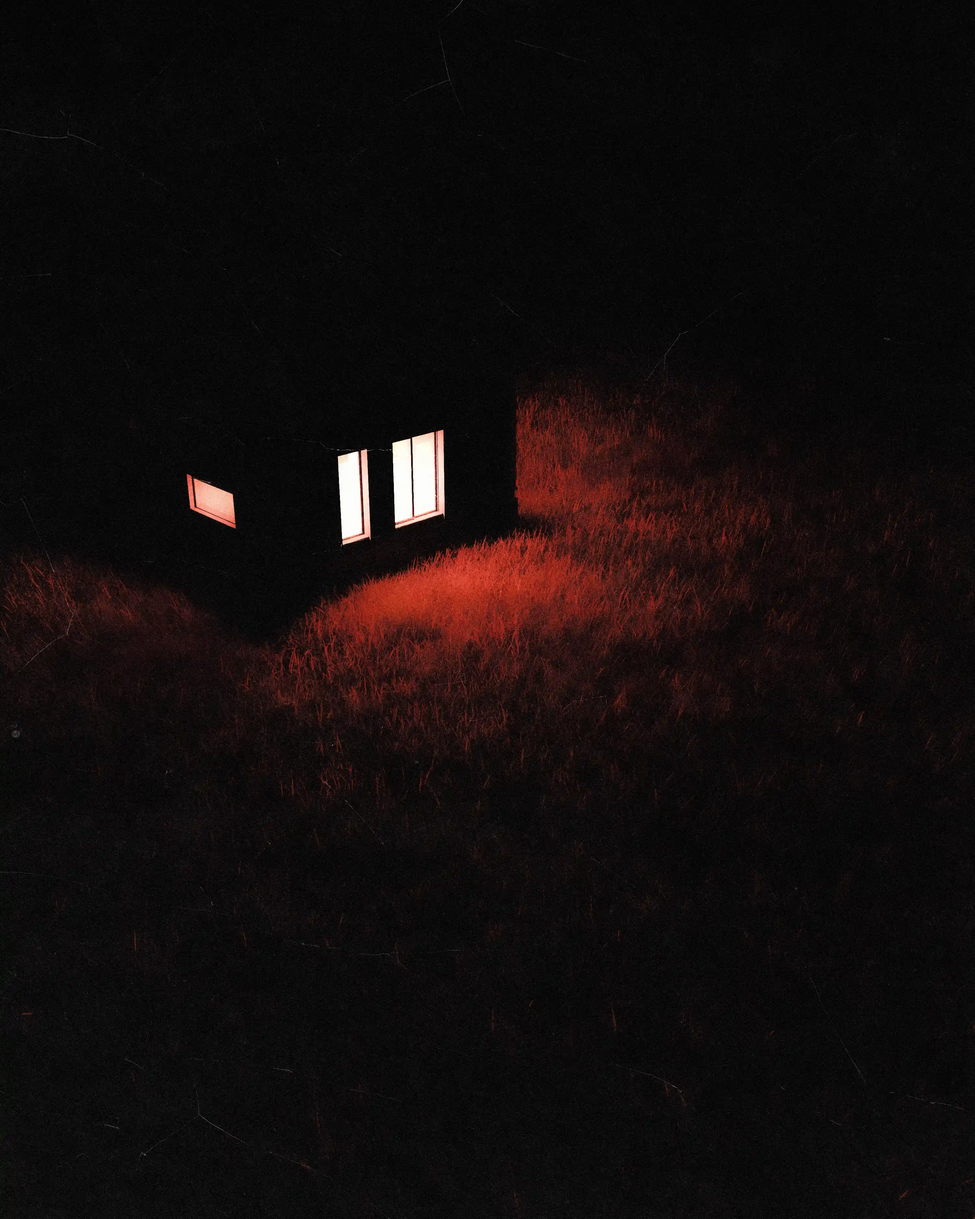
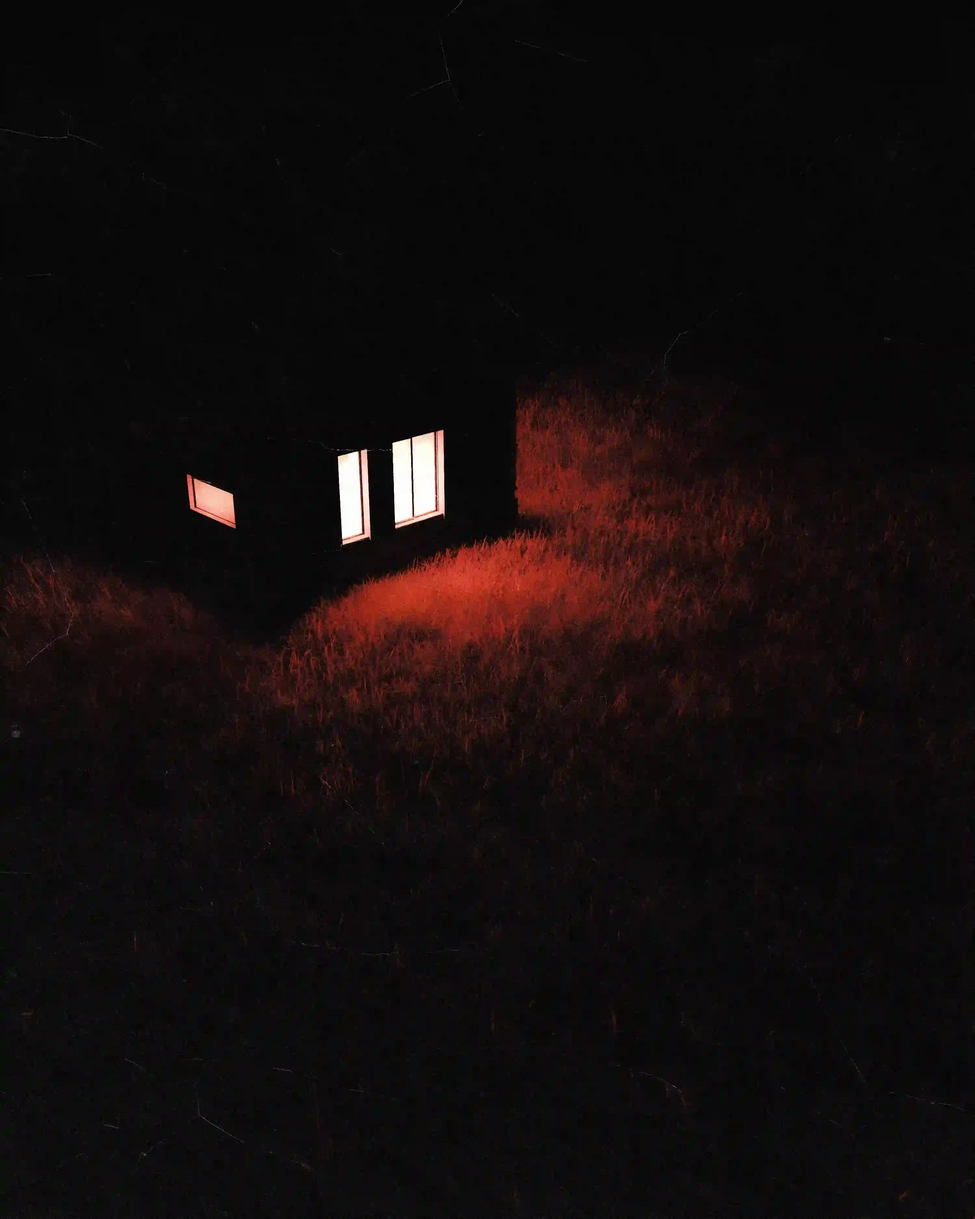
remove and compress more images

Changed region(s): [[0.279, 0.3432, 0.682, 0.5616], [0.992, 0.9984, 1.0, 1.0], [0.031, 0.468, 0.062, 0.4992]]

diff --git a/snowfishapp/templates/photos.html b/snowfishapp/templates/photos.html
@@ -184,9 +184,6 @@
               <img src="{% static 'layout/img/gallery/SPG-2021 (3).webp' %}" alt="Snowfish 2021" class="d-block">
             </div>
             <div class="carousel-item">
-              <img src="{% static 'layout/img/gallery/SPG-2021 (4).webp' %}" alt="Snowfish 2021" class="d-block">
-            </div>
-            <div class="carousel-item">
               <img src="{% static 'layout/img/gallery/SPG-2021 (5).webp' %}" alt="Snowfish 2021" class="d-block">
             </div>
             <div class="carousel-item">
@@ -244,9 +241,6 @@
             </div>
             <div class="carousel-item">
               <img src="{% static 'layout/img/gallery/SPG-2020 (3).webp' %}" alt="Snowfish 2020" class="d-block">
-            </div>
-            <div class="carousel-item">
-              <img src="{% static 'layout/img/gallery/SPG-2020 (4).webp' %}" alt="Snowfish 2020" class="d-block">
             </div>
             <div class="carousel-item">
               <img src="{% static 'layout/img/gallery/SPG-2020 (5).webp' %}" alt="Snowfish 2020" class="d-block">
